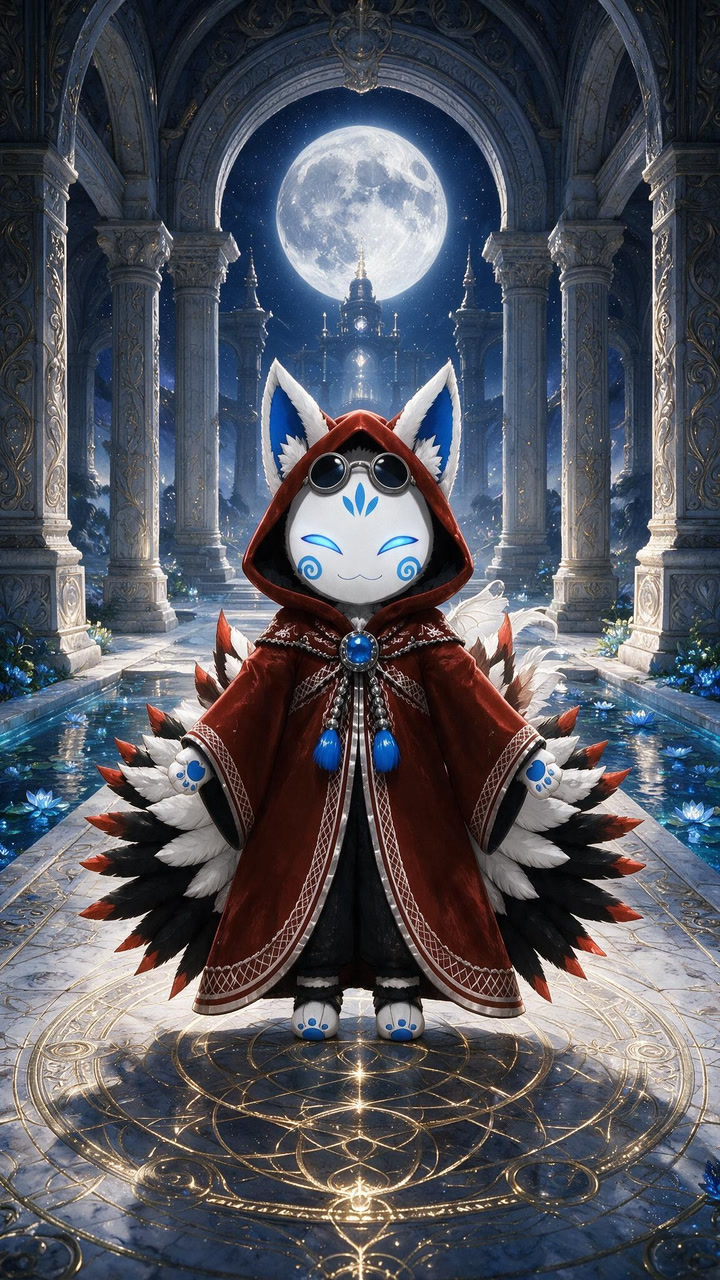
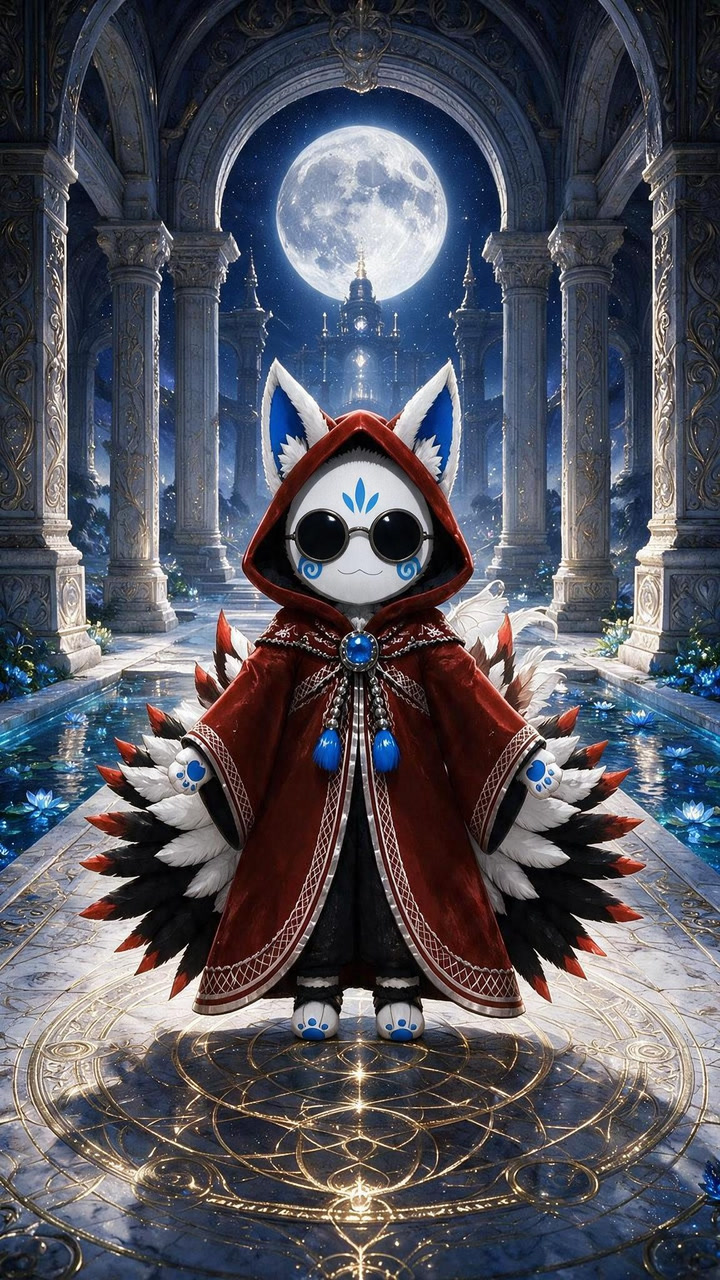
UI art: new pictures [skip ci]

diff --git a/apps/web/public/onboarding/s/last-run.md b/apps/web/public/onboarding/s/last-run.md
@@ -1,7 +1,24 @@
-# UI art — 2026-10-26T10:15:46.109Z
+# UI art — 2026-10-26T11:05:16.424Z
 
-Seedream 5.0 Pro / 3枚 / 約8円
+Seedream 5.0 Pro / 20枚 / 約36円
 
-- ✅ arr-jupiter-canopy
-- ✅ arr-mars-city
-- ✅ arr-mercury-sea
+- ✅ d2-kimorin-after
+- ✅ d2-moon-bed
+- ✅ daikon-kaiser-x-joy
+- ✅ daikon-kaiser-x-joy-o
+- ✅ daikon-kaiser-x-shock
+- ✅ daikon-kaiser-x-shock-o
+- ✅ daikon-kaiser-x-talk
+- ✅ daikon-kaiser-x-talk-o
+- ✅ freezy-x-joy
+- ✅ freezy-x-joy-o
+- ✅ freezy-x-shock
+- ✅ freezy-x-shock-o
+- ✅ freezy-x-talk
+- ✅ freezy-x-talk-o
+- ✅ hipokin-x-joy
+- ✅ hipokin-x-joy-o
+- ✅ hipokin-x-shock
+- ✅ hipokin-x-shock-o
+- ✅ hipokin-x-talk
+- ✅ hipokin-x-talk-o

diff --git a/apps/web/public/atelier/raw/last-run.md b/apps/web/public/atelier/raw/last-run.md
@@ -1,4 +1,4 @@
-# UI art — 2026-10-26T10:15:46.147Z
+# UI art — 2026-10-26T11:05:16.464Z
 
 Seedream 5.0 Pro / 0枚 / 約0円
 

diff --git a/apps/web/public/dj/art/last-run.md b/apps/web/public/dj/art/last-run.md
@@ -1,4 +1,4 @@
-# UI art — 2026-10-26T10:09:52.149Z
+# UI art — 2026-10-26T11:01:43.445Z
 
 Seedream 5.0 Pro / 0枚 / 約0円
 

diff --git a/apps/web/public/ui/parts/raw/last-run.md b/apps/web/public/ui/parts/raw/last-run.md
@@ -1,4 +1,4 @@
-# UI art — 2026-10-26T10:15:46.180Z
+# UI art — 2026-10-26T11:05:16.502Z
 
 Seedream 5.0 Pro / 0枚 / 約0円
 
